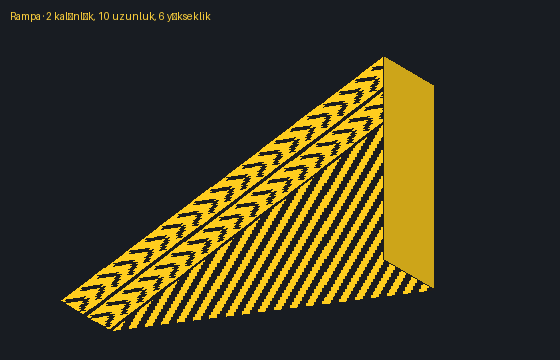
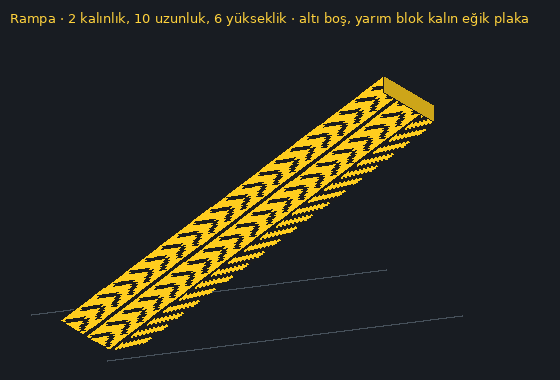
Rampa: altı boş, yarım blok kalın eğik plaka (yandan eğik duvar); çıraklı robot uzun yolda uçar (ara kayıt)
Claude-Session: https://claude.ai/code/session_016dSUtqjRQFdnbyLYXoqgnG

Changed region(s): [[0.0911, 0.1528, 0.8196, 0.9472], [0.0, 0.0306, 0.9411, 0.0611]]

diff --git a/aqualit/addon/src/scripts/rampa.js b/aqualit/addon/src/scripts/rampa.js
@@ -1,6 +1,7 @@
 // v0.5.0: Rampa. Rampa eşyası bir bloğa dokunarak konunca baktığın yöne doğru rampa kurulur: varsayılan 2 blok
 // kalınlık (genişlik), 10 blok uzunluk, 6 blok yükseklik. Rampa Ayarlayıcı: basılı tut → kalınlık/uzunluk/yükseklik;
-// bir rampaya dokun → o rampayı kaldırır (Rampa eşyası geri verilir). Bloklar gen/rampa.py. Oyunda denenmedi.
+// bir rampaya dokun → o rampayı kaldırır (Rampa eşyası geri verilir). Rampa yarım blok kalın eğik plaka (altı boş).
+// Bloklar gen/rampa.py. Oyunda denenmedi.
 import { BlockPermutation, ItemStack, GameMode } from "@minecraft/server";
 import { safe, V } from "./util.js";
 import { Prefs } from "./store.js";
@@ -38,16 +39,18 @@ export function rampaKur(dim, bas, yon, ayar) {
     safe(() => dim.getBlock(p).setPermutation(perm));
     n++;
   };
-  const govde = safe(() => BlockPermutation.resolve("aqualit:rampa_govde", { "minecraft:cardinal_direction": yon.ad }));
+  // rampa yarım blok kalın eğik bir plaka: altı boş; plakanın alttaki bloğa taşan kısmı 'alt' parçası
+  const KALINLIK = 8;
   for (let i = 0; i < L; i++) {
     const h = i * r;
     const yb = Math.floor(h + 1e-6);
     const k = Math.min(14, Math.round(((h - yb) * 16) / 2) * 2);
-    const egim = safe(() => BlockPermutation.resolve(`aqualit:rampa_e${e}`, { "aqualit:kayma": `k${k}`, "minecraft:cardinal_direction": yon.ad }));
+    const perm = (parca) => safe(() => BlockPermutation.resolve(`aqualit:rampa_e${e}`, { "aqualit:kayma": `k${k}`, "aqualit:parca": parca, "minecraft:cardinal_direction": yon.ad }));
+    const ust = perm("ust"), alt = k < KALINLIK ? perm("alt") : null;
     for (let w = 0; w < W; w++) {
       const x = bas.x + yon.d.x * i + yan.x * (sol + w), z = bas.z + yon.d.z * i + yan.z * (sol + w);
-      for (let y = 0; y < yb; y++) if (govde) koy({ x, y: bas.y + y, z }, govde);
-      if (egim) koy({ x, y: bas.y + yb, z }, egim);
+      if (ust) koy({ x, y: bas.y + yb, z }, ust);
+      if (alt) koy({ x, y: bas.y + yb - 1, z }, alt);
     }
   }
   safe(() => dim.playSound("random.anvil_land", bas, { volume: 0.5, pitch: 1.4 }));
@@ -100,8 +103,9 @@ export function rampaKaldir(pl, block) {
     if (!t?.startsWith("aqualit:rampa")) continue;
     safe(() => dim.setBlockType(p, "minecraft:air"));
     n++;
-    for (const d of [[1, 0, 0], [-1, 0, 0], [0, 1, 0], [0, -1, 0], [0, 0, 1], [0, 0, -1]]) {
-      const q = { x: p.x + d[0], y: p.y + d[1], z: p.z + d[2] };
+    for (let dx = -1; dx <= 1; dx++) for (let dy = -1; dy <= 1; dy++) for (let dz = -1; dz <= 1; dz++) {
+      if (!dx && !dy && !dz) continue;
+      const q = { x: p.x + dx, y: p.y + dy, z: p.z + dz };
       const k = `${q.x},${q.y},${q.z}`;
       if (!gor.has(k)) { gor.add(k); kuyruk.push(q); }
     }

diff --git a/aqualit/addon/src/scripts/portalci.js b/aqualit/addon/src/scripts/portalci.js
@@ -284,6 +284,35 @@ function* tasiyarak(b, p, hedef) {
   }
 }
 
+/** v0.5.0: Portalcı çırağı olan robot uzun yolda uçarak gider: önce yükselir (yoldaki en yüksek yüzeyin üstüne),
+ *  dümdüz uçar, hedefe iner. Uçtuysa true. */
+export function* ucarakGit(b, hedef) {
+  const p = cirakPortalcisi(b);
+  if (!p || p.mod !== "cirak" || seferde.has(b.e.id)) return false;
+  const dim = b.dim;
+  const l = b.loc;
+  const d = Math.hypot(hedef.x - l.x, hedef.z - l.z);
+  let tepe = Math.max(l.y, hedef.y);
+  for (let k = 0; k <= Math.ceil(d / 8); k++) {
+    const f = Math.min(1, (k * 8) / Math.max(1, d));
+    const x = Math.floor(l.x + (hedef.x - l.x) * f), z = Math.floor(l.z + (hedef.z - l.z) * f);
+    const ust = safe(() => dim.getTopmostBlock({ x, z })?.y);
+    if (typeof ust === "number" && ust + 1 > tepe) tepe = ust + 1;
+  }
+  const yukseklik = Math.min(tepe + 6, 300);
+  modAyarla(p, "sefer");
+  safe(() => p.e.setProperty("aqualit:kucuk", false));
+  b.setStatus("Portalcısıyla uçuyor");
+  b.setMove("none");
+  yield* tasiyarak(b, p, { x: l.x, y: yukseklik, z: l.z });
+  yield* tasiyarak(b, p, { x: hedef.x, y: yukseklik, z: hedef.z });
+  yield* tasiyarak(b, p, { x: hedef.x, y: hedef.y, z: hedef.z });
+  modAyarla(p, "cirak", b.rid);
+  return true;
+}
+// bot.js (uzun yolculuk) içe aktarma döngüsü olmadan kullansın
+globalThis.__aqUcus = { ucarakGit, cirak: (b) => cirakPortalcisi(b) };
+
 export function* netherIsi(b, p, tur, adet) {
   const m = MALZEME[tur];
   const geri = { dim: b.dim.id, loc: { ...b.loc } };

diff --git a/aqualit/addon/src/scripts/sandik.js b/aqualit/addon/src/scripts/sandik.js
@@ -1003,6 +1003,23 @@ export function pickupUnit(player, uid) {
   return true;
 }
 
+/** v0.5.0: robot sandığını taşır: sandık bloğu kalkar, kaydı silinir; içindekiler ve sandık bilgisi döner. */
+export function sandigiKaldir(uid) {
+  const u = loadUnit(resolveId(uid));
+  if (!u) return null;
+  const s = sessions.get(u.id);
+  if (s) endSession(s);
+  safe(() => absorb(u));
+  const items = takeAll(u).concat(refund(u));
+  for (let i = 0; i < u.blocks.length; i++) removeCompanions(u, i);
+  for (const b of u.blocks) {
+    const blk = blockOf(u, b);
+    if (isChest(blk)) safe(() => blk.setType("minecraft:air"));
+  }
+  unregister(u);
+  return { items, kind: u.kind, name: u.name, access: u.access, owner: u.owner, cift: u.blocks.length > 1 };
+}
+
 /** Kapasite ekle: n normal sandık. Eklenen yuva sayısını döndürür. */
 export function addCapacity(u, n) {
   const before = capacity(u);

diff --git a/aqualit/addon/src/scripts/bot.js b/aqualit/addon/src/scripts/bot.js
@@ -381,6 +381,11 @@ export class Bot {
     const near = opts.near ?? 2.5;
     const speed = opts.speed;
     let stuck = 0;
+    // v0.5.0: Portalcı çırağı varsa uzun yolu uçarak gider (kendisi karar verir: 24 bloktan uzak ya da yürüyüş takıldıysa)
+    const UC = globalThis.__aqUcus;
+    if (UC && opts.ucma !== false && this.dim && V.hdist(this.loc, target) > 24 && UC.cirak(this)) {
+      if (yield* UC.ucarakGit(this, target)) return V.hdist(this.loc, target) <= near + 1.5 || (yield* this.travelTo(target, { ...opts, ucma: false }));
+    }
     for (let leg = 0; leg < 80; leg++) {
       if (this.abortMove) return false;
       const here = this.loc;

diff --git a/aqualit/addon/src/scripts/brain.js b/aqualit/addon/src/scripts/brain.js
@@ -148,8 +148,15 @@ function tickBot(id, b) {
   try {
     const r = b.job.next();
     if (r.done) {
-      b.job = idleJob(b);
-      b.jobName = "bekleme";
+      // v0.5.0: not alınan iş (ör. Organizatör "sandıklarınızı getirin" dediyse) işi bitince yapılır
+      const sonraki = b.sonrakiIs?.shift?.();
+      if (sonraki) {
+        b.job = sonraki(b);
+        b.jobName = "gorev";
+      } else {
+        b.job = idleJob(b);
+        b.jobName = "bekleme";
+      }
     }
   } catch (e) {
     log("robot hata", b.name, e, e?.stack);

diff --git a/aqualit/addon/gen/rampa.py b/aqualit/addon/gen/rampa.py
@@ -5,7 +5,8 @@ rampa kurulur (rampa.js). Rampa Ayarlayıcı basılı tutulunca kalınlık (geni
 dokununca o rampayı kaldırır. Eğim blok başına e/8 (e = 1..8): her eğim ayrı blok (aqualit:rampa_e<e>), blokta
 aqualit:kayma (k0..k14: eğimin bloğa göre başlangıç yüksekliği, piksel) ve yön (minecraft:cardinal_direction).
 Yüzey 2 piksellik basamaklarla yumuşak; geometri kuzeye (-z) doğru yükselir, yön dönüşümüyle çevrilir.
-Rampanın altı aqualit:rampa_govde (tam blok) ile doldurulur."""
+Rampa yarım blok kalınlığında eğik bir plakadır: altı dolu değildir, altı da eğiktir (yandan eğik duvar gibi);
+plakanın alttaki bloğa taşan kısmı aynı bloğun 'alt' parçasıdır (aqualit:parca)."""
 import os
 
 from PIL import Image, ImageDraw
@@ -39,24 +40,59 @@ def govde_dokusu():
     return im
 
 
+KALINLIK = 8          # rampa plakasının kalınlığı (piksel): altı da eğik, yandan eğik bir duvar gibi görünür
+PARCA = ['ust', 'alt']
+
+
+def doku():
+    """32x16: sol yarı üst yüz (ok deseni), sağ yarı yan yüzler (uyarı şeridi)."""
+    im = Image.new('RGBA', (32, 16), (0, 0, 0, 0))
+    im.paste(desen(), (0, 0))
+    im.paste(govde_dokusu(), (16, 0))
+    return im
+
+
+def _dilimler(e, k, parca):
+    """Eğim e, kayma k için 8 dilim: (z0, y0, y1) blok içinde. ust: yüzeyin bulunduğu blok; alt: plakanın alttaki bloğa
+    taşan kısmı."""
+    out = []
+    for j in range(8):
+        top = k + 2 * e * (j + 0.5) / 8
+        bot = top - KALINLIK
+        if parca == 'ust':
+            y0, y1 = max(0, bot), min(30, top)
+        else:
+            y0, y1 = 16 + bot, 16
+            if bot >= 0:
+                continue
+        y0, y1 = round(y0), round(y1)
+        if y1 - y0 < 1:
+            if parca == 'alt':
+                continue
+            y1 = y0 + 1
+        out.append((8 - 2 * (j + 1), y0, y1, j))
+    return out
+
+
 def geometri(e):
-    """Eğim e/8: her kayma için bir kemik, kemikte 8 dilim (2 piksel derin) — yüzey 2 piksellik basamaklarla yükselir."""
+    """Eğim e/8: her kayma ve parça (üst/alt) için bir kemik; kemikte 2 piksel derin dilimler (yumuşak eğik plaka)."""
     bones = [{'name': 'root', 'pivot': [0, 0, 0]}]
-    for k in range(0, 16, 2):
-        cubes = []
-        for j in range(8):
-            h = max(1, min(30, round(k + 2 * e * (j + 0.5) / 8)))
-            z0 = 8 - 2 * (j + 1)            # kuzeye (-z) doğru ilerler
-            uv = {'up': {'uv': [0, 14 - 2 * j], 'uv_size': [16, 2]},
-                  'down': {'uv': [0, 14 - 2 * j], 'uv_size': [16, 2]},
-                  'north': {'uv': [0, 16 - min(16, h)], 'uv_size': [16, min(16, h)]},
-                  'south': {'uv': [0, 16 - min(16, h)], 'uv_size': [16, min(16, h)]},
-                  'east': {'uv': [14 - 2 * j, 16 - min(16, h)], 'uv_size': [2, min(16, h)]},
-                  'west': {'uv': [14 - 2 * j, 16 - min(16, h)], 'uv_size': [2, min(16, h)]}}
-            cubes.append({'origin': [-8, 0, z0], 'size': [16, h, 2], 'uv': uv})
-        bones.append({'name': f'k{k}', 'parent': 'root', 'pivot': [0, 0, 0], 'cubes': cubes})
+    for parca in PARCA:
+        for k in range(0, 16, 2):
+            cubes = []
+            for z0, y0, y1, j in _dilimler(e, k, parca):
+                h = y1 - y0
+                hs = min(16, h)
+                uv = {'up': {'uv': [0, 14 - 2 * j], 'uv_size': [16, 2]},
+                      'down': {'uv': [16, 14 - 2 * j], 'uv_size': [16, 2]},
+                      'north': {'uv': [16, 16 - hs], 'uv_size': [16, hs]},
+                      'south': {'uv': [16, 16 - hs], 'uv_size': [16, hs]},
+                      'east': {'uv': [16 + 14 - 2 * j, 16 - hs], 'uv_size': [2, hs]},
+                      'west': {'uv': [16 + 14 - 2 * j, 16 - hs], 'uv_size': [2, hs]}}
+                cubes.append({'origin': [-8, y0, z0], 'size': [16, h, 2], 'uv': uv})
+            bones.append({'name': f'{parca}_k{k}', 'parent': 'root', 'pivot': [0, 0, 0], 'cubes': cubes})
     return {'format_version': '1.12.0', 'minecraft:geometry': [{
-        'description': {'identifier': f'geometry.aqualit.rampa_e{e}', 'texture_width': 16, 'texture_height': 16,
+        'description': {'identifier': f'geometry.aqualit.rampa_e{e}', 'texture_width': 32, 'texture_height': 16,
                         'visible_bounds_width': 2, 'visible_bounds_height': 3, 'visible_bounds_offset': [0, 1, 0]},
         'bones': bones}]}
 
@@ -69,10 +105,8 @@ def _yon_perms():
 def build(RP, BP, wj, td, sounds, lang):
     os.makedirs(f'{RP}/textures/blocks', exist_ok=True)
     os.makedirs(f'{RP}/models/blocks', exist_ok=True)
-    desen().save(f'{RP}/textures/blocks/aqualit_rampa.png')
-    govde_dokusu().save(f'{RP}/textures/blocks/aqualit_rampa_yan.png')
+    doku().save(f'{RP}/textures/blocks/aqualit_rampa.png')
     td['aqualit_rampa'] = {'textures': 'textures/blocks/aqualit_rampa'}
-    td['aqualit_rampa_yan'] = {'textures': 'textures/blocks/aqualit_rampa_yan'}
     ortak = {
         'minecraft:destructible_by_mining': {'seconds_to_destroy': 1.0},
         'minecraft:destructible_by_explosion': {'explosion_resistance': 6},
@@ -85,12 +119,15 @@ def build(RP, BP, wj, td, sounds, lang):
     for e in range(1, 9):
         bid = f'rampa_e{e}'
         wj(f'{RP}/models/blocks/aqualit_{bid}.geo.json', geometri(e))
-        vis = {f'k{k}': f"q.block_state('aqualit:kayma') == 'k{k}'" for k in range(0, 16, 2)}
+        vis = {f'{pa}_k{k}': f"q.block_state('aqualit:parca') == '{pa}' && q.block_state('aqualit:kayma') == 'k{k}'"
+               for pa in PARCA for k in range(0, 16, 2)}
         perms = _yon_perms()
         for k in range(0, 16, 2):
-            boy = max(1, min(16, round(k + e)))           # çarpışma: eğimin ortası (araçlar basamak çıkar)
-            perms.append({'condition': f"q.block_state('aqualit:kayma') == 'k{k}'", 'components': {
-                'minecraft:collision_box': {'origin': [-8, 0, -8], 'size': [16, boy, 16]}}})
+            ust = max(1, min(16, round(k + e)))           # çarpışma: eğimin ortası (araçlar basamak çıkar)
+            alt = max(0, min(15, round(k + e - KALINLIK)))
+            perms.append({'condition': f"q.block_state('aqualit:parca') == 'ust' && q.block_state('aqualit:kayma') == 'k{k}'",
+                          'components': {'minecraft:collision_box': {'origin': [-8, alt, -8], 'size': [16, max(1, ust - alt), 16]}}})
+        perms.append({'condition': "q.block_state('aqualit:parca') == 'alt'", 'components': {'minecraft:collision_box': False}})
         comps = dict(ortak)
         comps.update({
             'minecraft:display_name': f'tile.aqualit:{bid}.name',
@@ -100,22 +137,10 @@ def build(RP, BP, wj, td, sounds, lang):
         })
         wj(f'{BP}/blocks/{bid}.json', {'format_version': '1.26.20', 'minecraft:block': {
             'description': {'identifier': f'aqualit:{bid}', 'menu_category': {'category': 'none', 'is_hidden_in_commands': True},
-                            'states': {'aqualit:kayma': KAYMA}, 'traits': traits},
+                            'states': {'aqualit:kayma': KAYMA, 'aqualit:parca': PARCA}, 'traits': traits},
             'components': comps, 'permutations': perms}})
         sounds[f'aqualit:{bid}'] = {'sound': 'metal'}
         lang[f'tile.aqualit:{bid}.name'] = 'Rampa'
-    comps = dict(ortak)
-    comps.update({
-        'minecraft:display_name': 'tile.aqualit:rampa_govde.name',
-        'minecraft:material_instances': {'*': {'texture': 'aqualit_rampa_yan', 'render_method': 'opaque'},
-                                         'up': {'texture': 'aqualit_rampa', 'render_method': 'opaque'}},
-    })
-    wj(f'{BP}/blocks/rampa_govde.json', {'format_version': '1.26.20', 'minecraft:block': {
-        'description': {'identifier': 'aqualit:rampa_govde', 'menu_category': {'category': 'none', 'is_hidden_in_commands': True},
-                        'traits': traits},
-        'components': comps, 'permutations': _yon_perms()}})
-    sounds['aqualit:rampa_govde'] = {'sound': 'metal'}
-    lang['tile.aqualit:rampa_govde.name'] = 'Rampa gövdesi'
 
 
 def simgeler(GEN):
